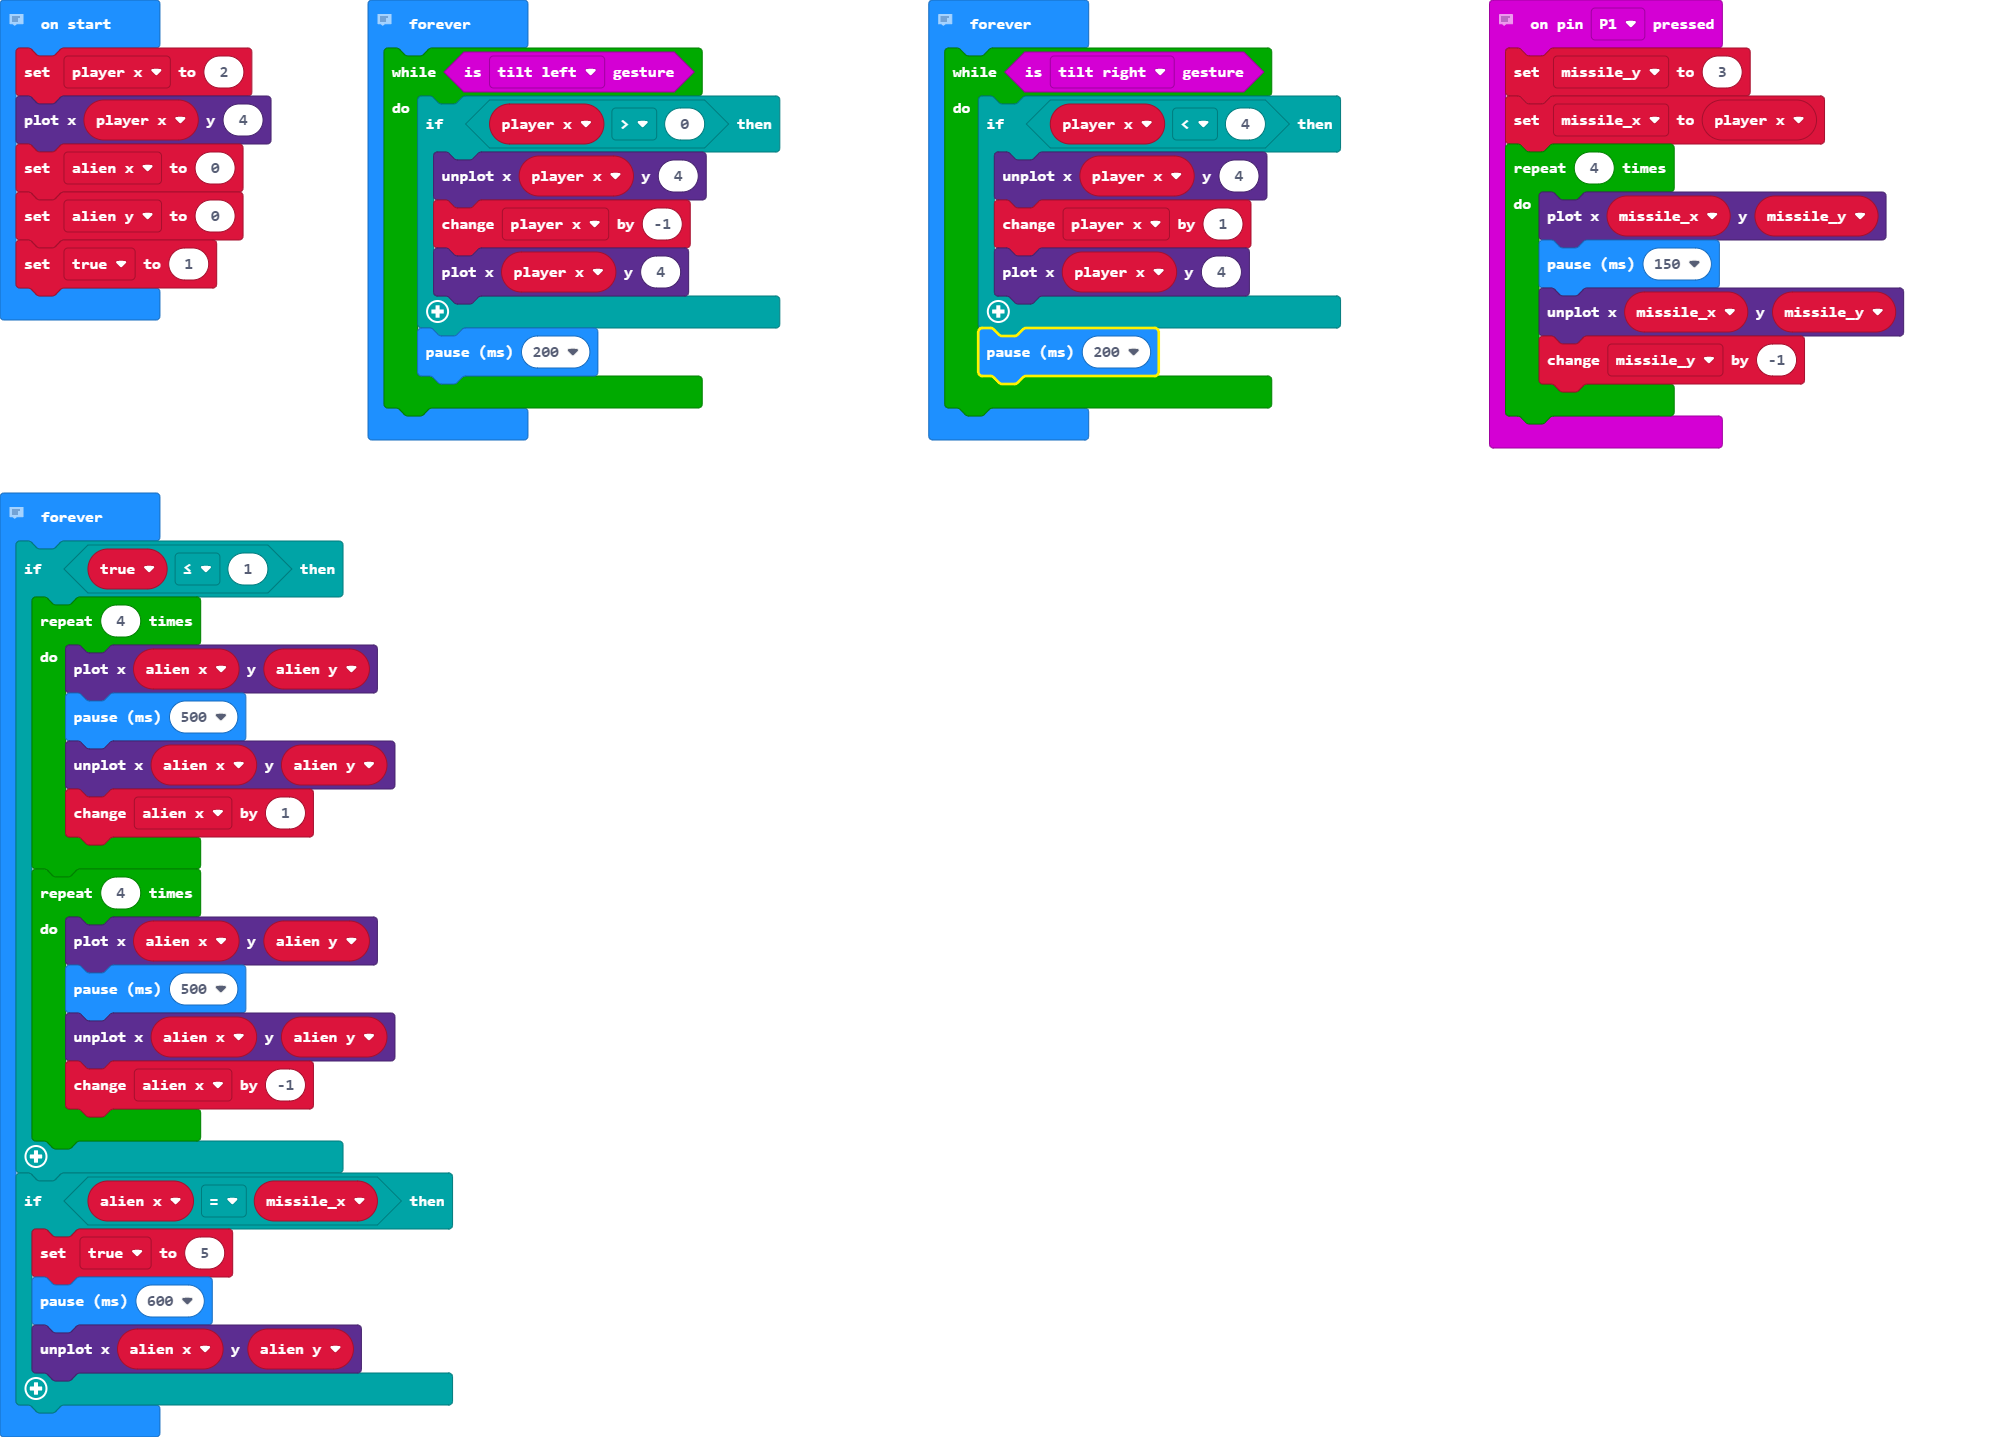
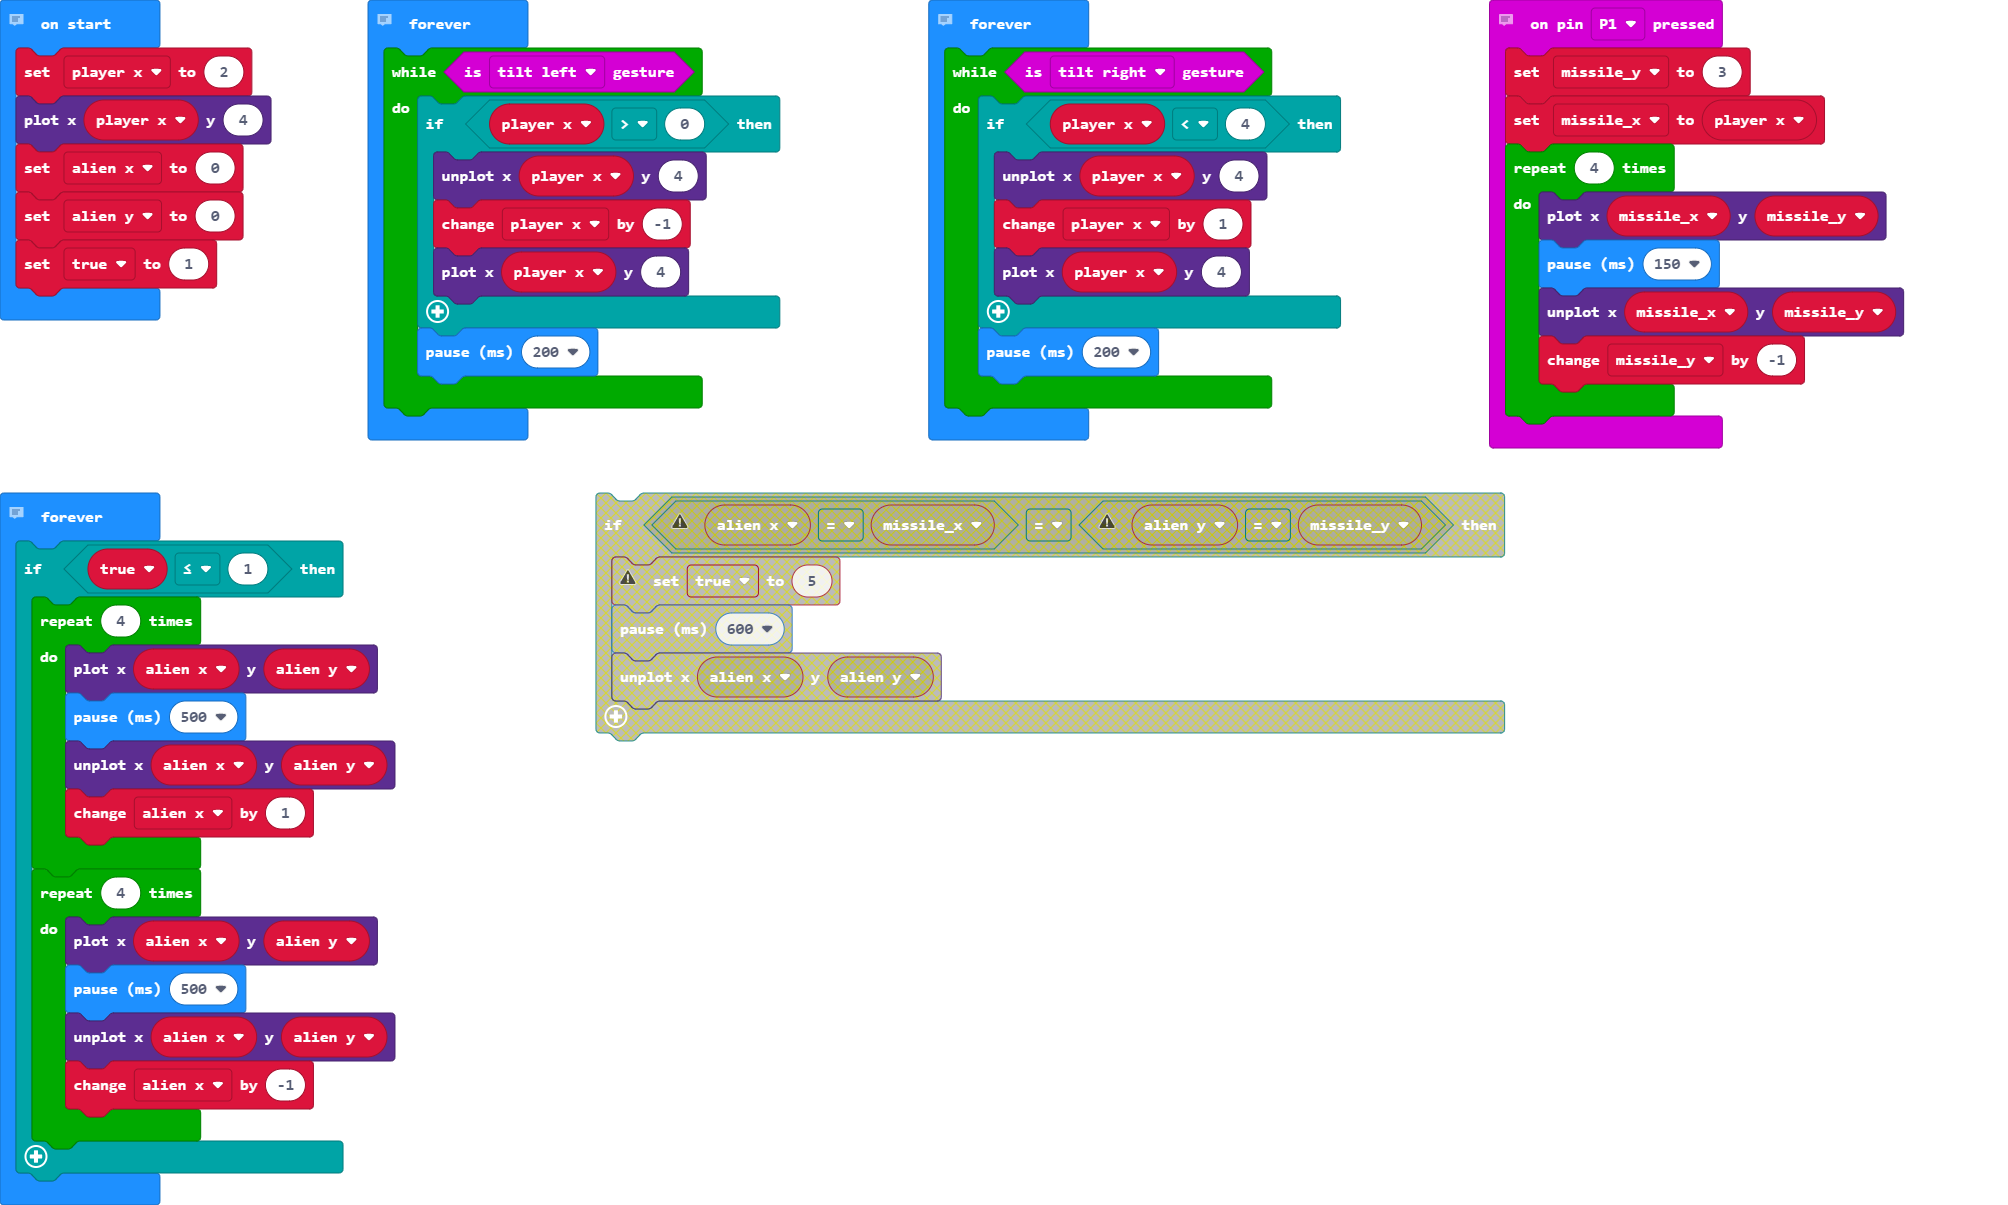
Update main.blocks, main.ts

diff --git a/main.ts b/main.ts
@@ -56,9 +56,4 @@ basic.forever(function () {
             alien_x += -1
         }
     }
-    if (alien_x == missile_x) {
-        _true = 5
-        basic.pause(600)
-        led.unplot(alien_x, alien_y)
-    }
 })
